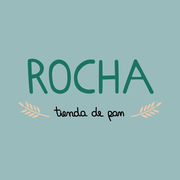
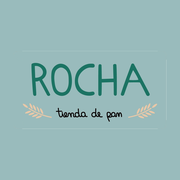
fix(brand): ship rocha-mark-v2 without registration dots
Rebuild from WhatsApp source after painting corner reg marks with
local teal, letterbox to 85%, and cache-bust path so remito/SW stop
serving the dirty mark or old /brand/rocha-logo.png.

diff --git a/public/sw.js b/public/sw.js
@@ -1,10 +1,10 @@
 /* Rocha Cotizador — admin Web Push service worker */
-/* v9 — silence OS sound when an open admin tab will chime in-app */
+/* v10 — brand mark v2 (no registration dots) */
 
 const PUSH_CHANNEL = "rocha-admin-push";
 const FALLBACK_TITLE = "Nueva cotización";
 const FALLBACK_URL = "/admin/cotizaciones";
-const ICON_PATH = "/brand/rocha-mark.png";
+const ICON_PATH = "/brand/rocha-mark-v2.png";
 
 function brandIconUrl() {
   return new URL(ICON_PATH, self.location.origin).href;

diff --git a/src/lib/push-notification-brand.ts b/src/lib/push-notification-brand.ts
@@ -1,5 +1,5 @@
-/** Square Rocha mark — same asset as {@link BrandLogo} (`public/brand/rocha-mark.png`). */
-export const PUSH_NOTIFICATION_ICON_PATH = "/brand/rocha-mark.png";
+/** Square Rocha mark — same asset as {@link BrandLogo} (`public/brand/rocha-mark-v2.png`). */
+export const PUSH_NOTIFICATION_ICON_PATH = "/brand/rocha-mark-v2.png";
 
 export function pushNotificationIconUrl(origin?: string | null): string {
   const base = origin?.replace(/\/$/, "") ?? "";

diff --git a/src/components/brand-logo.tsx b/src/components/brand-logo.tsx
@@ -30,7 +30,7 @@ export function BrandLogo({
   return (
     <span className="inline-block overflow-hidden rounded-2xl">
       <Image
-        src="/brand/rocha-mark.png"
+        src="/brand/rocha-mark-v2.png"
         alt="ROCHA tienda de pan"
         width={s.width}
         height={s.height}
